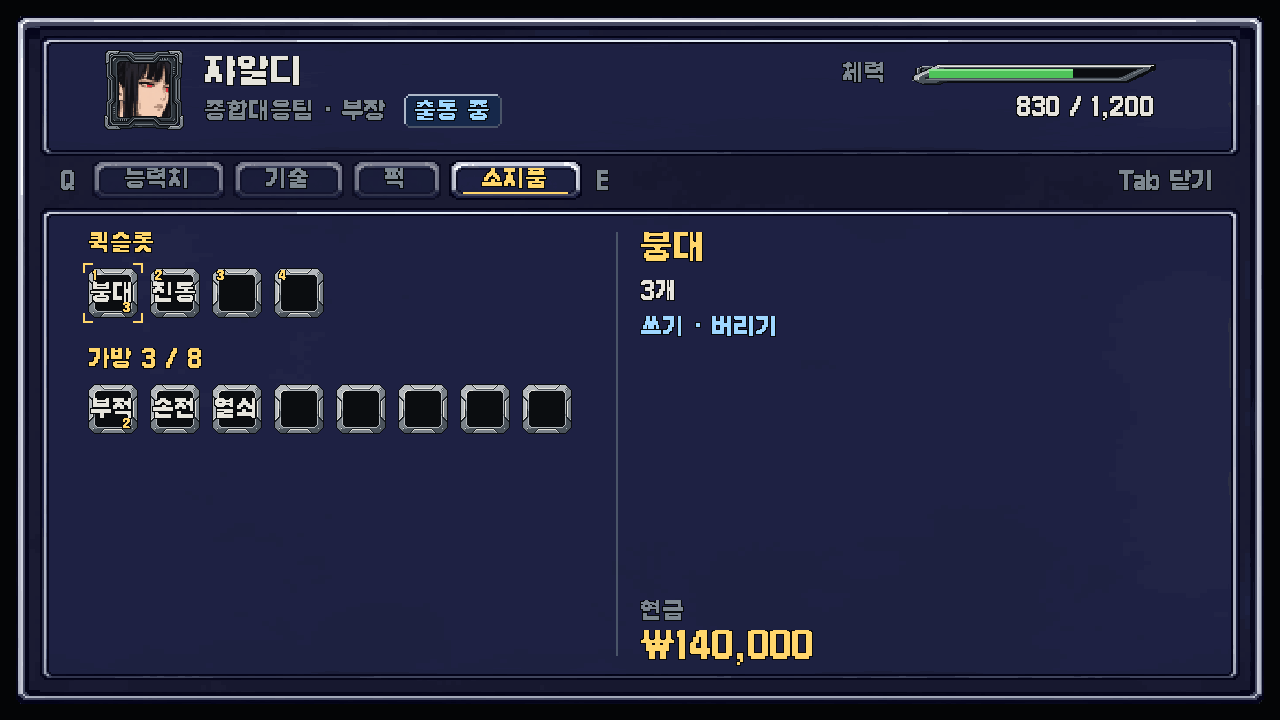
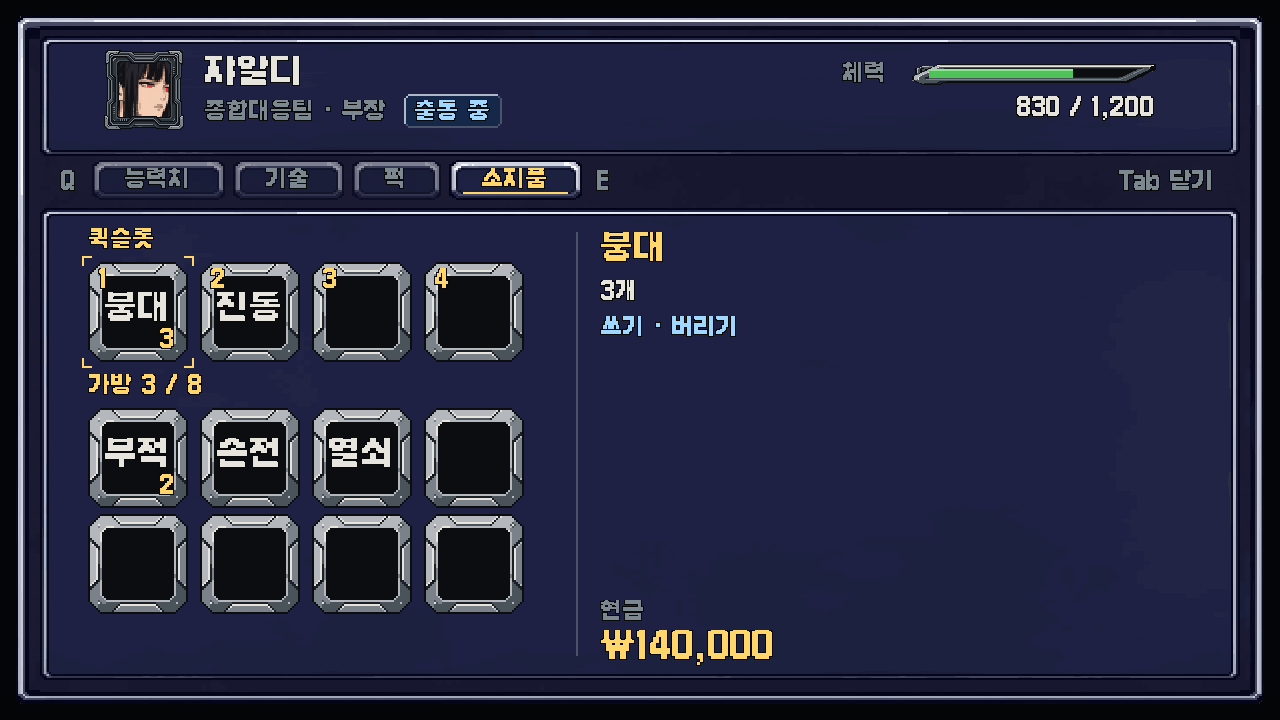
통합창: 퍽 뱃지 128px, 소지품 칸 100px로 키움
Claude-Session: https://claude.ai/code/session_01MHVZo4WvLZhQjig6bwQEXd

Changed region(s): [[0.0625, 0.3056, 0.4688, 0.8556], [0.4688, 0.3056, 0.625, 0.4889], [0.4688, 0.825, 0.6562, 0.9167]]

diff --git a/src/game/action/ui/charWindow.ts b/src/game/action/ui/charWindow.ts
@@ -153,40 +153,38 @@ export function drawCharWindow(c: CanvasRenderingContext2D, d: CharWindowData, t
     d.pick.desc.forEach((l, i) => putText(c, T(l), L + 40, y0 + 50 + i * 32));
     putText(c, T(d.pick.nums, '#9fd7ff'), L + 40, y0 + 50 + d.pick.desc.length * 32 + 10);
   } else if (tab === '퍽') {
-    const gw = 700, per = Math.floor((gw - 20) / 78);
+    const gw = 740, per = 5;
     for (let i = 0; i < d.perks.length; i++) {
-      const x = L + 48 + (i % per) * 78, y = top + 30 + Math.floor(i / per) * 78;
+      const x = L + 48 + (i % per) * 140, y = top + 30 + Math.floor(i / per) * 140;
       const p = d.perks[i];
-      if (p.badge) c.drawImage(p.badge, x, y, 64, 64);
-      if (i === d.perkPick) corners(c, x - 5, y - 5, 74, 74);
+      if (p.badge) c.drawImage(p.badge, x, y, 128, 128);
+      if (i === d.perkPick) corners(c, x - 6, y - 6, 140, 140);
     }
     putText(c, T(`이번 괴이에서 얻은 퍽 ${d.perks.length}개`, DIM), L + 48, top + bh - 46);
     const dx0 = L + gw + 40;
     c.fillStyle = RIM_D; c.fillRect(dx0 - 24, top + 24, 2, bh - 48);
     const pp = d.perks[d.perkPick];
     if (pp) {
-      stretch(c, 'inner', dx0 - 16, top + 18, 160, 160);
-      if (pp.badge) c.drawImage(pp.badge, dx0, top + 34, 128, 128);
-      putText(c, pixelText(pp.trait ? '특성' : '퍽', pp.trait ? '#ff9a8a' : DIM, 22), dx0 + 166, top + 40);
-      putText(c, B(pp.name, GOLD), dx0 + 166, top + 72);
-      putText(c, T(pp.effect), dx0, top + 186);
-      putText(c, T('괴이를 나오면 사라짐', DIM), dx0, top + 222);
+      putText(c, pixelText(pp.trait ? '특성' : '퍽', pp.trait ? '#ff9a8a' : DIM, 22), dx0, top + 30);
+      putText(c, B(pp.name, GOLD), dx0, top + 62);
+      putText(c, T(pp.effect), dx0, top + 120);
+      putText(c, T('괴이를 나오면 사라짐', DIM), dx0, top + 156);
     }
   } else {
     const slot = (x: number, y: number, it?: { label: string; count: number }, k?: string, on = false) => {
-      if (SL) c.drawImage(SL, x, y);
+      if (SL) c.drawImage(SL, x, y, 100, 100);
       if (it) {
-        putText(c, T(it.label.slice(0, 2)), x + 25, y + 14, 'center');
-        if (it.count > 1) putText(c, pixelText(String(it.count), GOLD, 11), x + 44, y + 34, 'right');
+        putText(c, B(it.label.slice(0, 2)), x + 50, y + 30, 'center');
+        if (it.count > 1) putText(c, T(String(it.count), GOLD), x + 88, y + 66, 'right');
       }
-      if (k) putText(c, pixelText(k, GOLD, 11), x + 4, y + 2);
-      if (on) corners(c, x - 5, y - 5, 60, 60);
+      if (k) putText(c, T(k, GOLD), x + 10, y + 6);
+      if (on) corners(c, x - 6, y - 6, 112, 112);
     };
-    putText(c, T('퀵슬롯', GOLD), L + 48, top + 24);
-    for (let i = 0; i < 4; i++) slot(L + 48 + i * 62, top + 60, d.quick[i], String(i + 1), i === 0);
-    putText(c, T(`가방 ${d.bag.length} / ${d.bagSlots}`, GOLD), L + 48, top + 140);
-    for (let i = 0; i < d.bagSlots; i++) slot(L + 48 + (i % 8) * 62, top + 176 + Math.floor(i / 8) * 62, d.bag[i]);
-    const dx0 = L + 600;
+    putText(c, T('퀵슬롯', GOLD), L + 48, top + 20);
+    for (let i = 0; i < 4; i++) slot(L + 48 + i * 112, top + 54, d.quick[i], String(i + 1), i === 0);
+    putText(c, T(`가방 ${d.bag.length} / ${d.bagSlots}`, GOLD), L + 48, top + 166);
+    for (let i = 0; i < d.bagSlots; i++) slot(L + 48 + (i % 4) * 112, top + 200 + Math.floor(i / 4) * 106, d.bag[i]);
+    const dx0 = L + 560;
     c.fillStyle = RIM_D; c.fillRect(dx0 - 24, top + 24, 2, bh - 48);
     const it = d.quick[0];
     if (it) {
